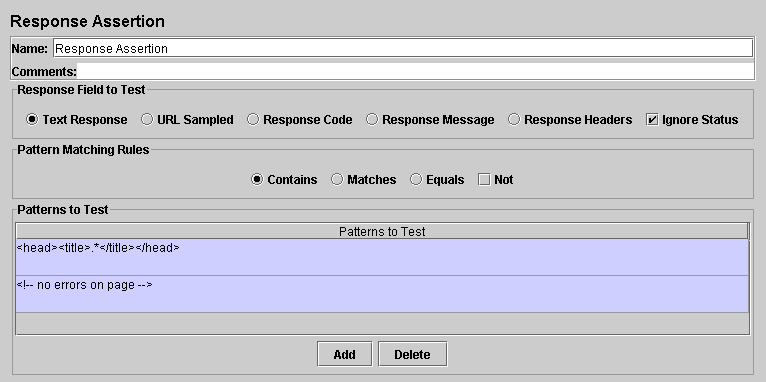
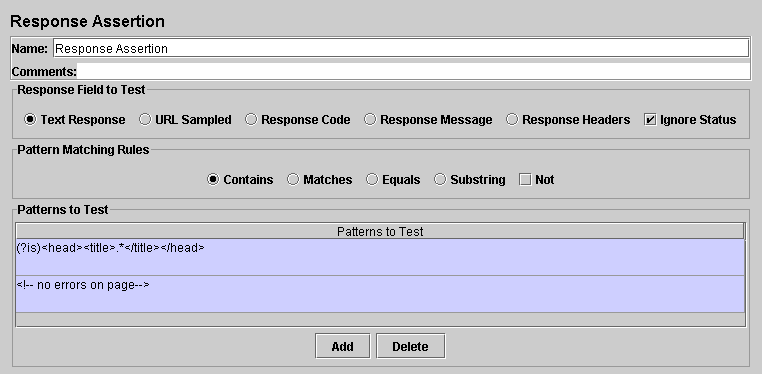
Add "Substring" option to Response Assertion
git-svn-id: https://svn.apache.org/repos/asf/jakarta/jmeter/trunk@629519 13f79535-47bb-0310-9956-ffa450edef68

diff --git a/docs/usermanual/component_reference.html b/docs/usermanual/component_reference.html
@@ -7891,7 +7891,7 @@ pattern. You can attach multiple assertions to any controller for additional fle
 
 
 														<p><b>Control Panel</b></p>
-						<div align="center"><img width='766' height='382' src="../images/screenshots/assertion/assertion.png"></div>
+						<div align="center"><img width='762' height='374' src="../images/screenshots/assertion/assertion.png"></div>
 											  									 			 <p>
 	<b>Parameters</b>
 	<table border="1" cellspacing="0" cellpadding="2">
@@ -7933,9 +7933,35 @@ pattern. You can attach multiple assertions to any controller for additional fle
 		</tr>
 			<tr>
 			<td>Pattern Matching Rules</td>
-			<td>						Indicates whether the text being tested
-        must CONTAIN or MATCH the test patterns.  NOT may also be selected to indicate the text
-        should NOT CONTAIN or NOT MATCH the test patterns.
+			<td>						Indicates how the text being tested
+        is checked against the pattern.
+        
+												<ul	>
+								
+        
+												<li	>
+								Contains - true if the text contains the regular expression pattern
+						</li>
+									
+        
+												<li	>
+								Matches - true if the whole text matches the regular expression pattern
+						</li>
+									
+        
+												<li	>
+								Equals - true if the whole text equals the pattern string (case-sensitive)
+						</li>
+									
+        
+												<li	>
+								Substring - true if the text contains the pattern string (case-sensitive)
+						</li>
+									
+        
+						</ul>
+									
+        NOT may also be selected to invert the result of the check.
 			</td>
 			<td>
 											Yes
@@ -7943,8 +7969,11 @@ pattern. You can attach multiple assertions to any controller for additional fle
 		</tr>
 			<tr>
 			<td>Patterns to Test</td>
-			<td>						A list of regular expressions to
-        be tested.  Each pattern is tested separately.  There is no difference between setting up
+			<td>						A list of patterns to
+        be tested.  
+        Each pattern is tested separately. 
+        If a pattern fails, then further patterns are not checked.
+        There is no difference between setting up
         one Assertion with multiple patterns and setting up multiple Assertions with one
         pattern each (assuming the other options are the same).
         
@@ -9254,7 +9283,6 @@ your dynamic test sample.
 			</td></tr>
 	</table></p>
 									
-
 
 										  		</td></tr>
 		<tr><td><br></td></tr>

diff --git a/docs/changes.html b/docs/changes.html
@@ -147,6 +147,9 @@ Simple Controller now works properly under a While Controller
 CSV and XML files can now contain additional variables (define the JMeter property sample_variables).
 						</p>
 							  									 				<p	>
+								Response Assertion can now match on substrings
+						</p>
+							  									 				<p	>
 								Number of classes loaded in non-GUI mode is much reduced.
 						</p>
 							  									 				<h4	>
@@ -230,6 +233,11 @@ To revert to earlier behaviour, comment or change the properties classfinder.fun
 						</li>
 									
 
+												<li	>
+								Bug 44314 - Not possible to add more than one SyncTimer
+						</li>
+									
+
 						</ul>
 							  									 				<h4	>
 								Improvements
@@ -301,6 +309,16 @@ that contain '.functions.' and don't contain '.gui.'
 												<li	>
 								Allow most functions to be used on the Test Plan. 
 Note __split() and __regex() cannot be used on the Test Plan.
+						</li>
+									
+
+												<li	>
+								Allow Global properties to be loaded from a file, e.g. -Gglobal.properties
+						</li>
+									
+
+												<li	>
+								Add "Substring" option to Response Assertion
 						</li>
 									
 

diff --git a/docs/usermanual/get-started.html b/docs/usermanual/get-started.html
@@ -1145,8 +1145,10 @@ These are shown below.
                 Set password for proxy server that JMeter is to use
         -J, --jmeterproperty {argument}={value}
                 Define additional JMeter properties
-        -G, --globalproperty (argument)=(value)
+        -G, --globalproperty (argument)[=(value)]
                 Define Global properties (sent to servers)
+                e.g. -Gport=123
+                 or -Gglobal.properties
         -D, --systemproperty {argument}={value}
                 Define additional System properties
         -S, --systemPropertyFile {filename}

diff --git a/src/components/org/apache/jmeter/assertions/ResponseAssertion.java b/src/components/org/apache/jmeter/assertions/ResponseAssertion.java
@@ -77,6 +77,11 @@ public class ResponseAssertion extends AbstractTestElement implements Serializab
 
 	private final static int EQUALS = 1 << 3;
 
+    private final static int SUBSTRING = 1 << 4;
+
+    // Mask should contain all types (but not NOT)
+    private final static int TYPE_MASK = CONTAINS | EQUALS | MATCH | SUBSTRING;
+    
     private static final int  EQUALS_SECTION_DIFF_LEN
             = JMeterUtils.getPropDefault("assertion.equals_section_diff_len", 100);
 
@@ -147,6 +152,11 @@ public class ResponseAssertion extends AbstractTestElement implements Serializab
 		setProperty(new IntegerProperty(TEST_TYPE, testType));
 	}
 
+    private void setTestTypeMasked(int testType) {
+        int value = getTestType() & ~(TYPE_MASK) | testType;
+        setProperty(new IntegerProperty(TEST_TYPE, value));
+    }
+
 	public void addTestString(String testString) {
 		getTestStrings().addProperty(new StringProperty(String.valueOf(testString.hashCode()), testString));
 	}
@@ -211,6 +221,10 @@ public class ResponseAssertion extends AbstractTestElement implements Serializab
 		return (getTestType() & EQUALS) > 0;
 	}
 
+    public boolean isSubstringType() {
+        return (getTestType() & SUBSTRING) > 0;
+    }
+
 	public boolean isContainsType() {
 		return (getTestType() & CONTAINS) > 0;
 	}
@@ -224,16 +238,20 @@ public class ResponseAssertion extends AbstractTestElement implements Serializab
 	}
 
 	public void setToContainsType() {
-		setTestType((getTestType() | CONTAINS) & ~(MATCH | EQUALS));
+		setTestTypeMasked(CONTAINS);
 	}
 
 	public void setToMatchType() {
-		setTestType((getTestType() | MATCH) & ~(CONTAINS | EQUALS));
+	    setTestTypeMasked(MATCH);
 	}
 
 	public void setToEqualsType() {
-		setTestType((getTestType() | EQUALS) & ~(MATCH | CONTAINS));
+	    setTestTypeMasked(EQUALS);
 	}
+
+    public void setToSubstringType() {
+        setTestTypeMasked(SUBSTRING);
+    }
 
 	public void setToNotType() {
 		setTestType((getTestType() | NOT));
@@ -292,6 +310,7 @@ public class ResponseAssertion extends AbstractTestElement implements Serializab
 
 		boolean contains = isContainsType(); // do it once outside loop
 		boolean equals = isEqualsType();
+        boolean substring = isSubstringType();
 		boolean debugEnabled = log.isDebugEnabled();
 		if (debugEnabled){
 			log.debug("Type:" + (contains?"Contains":"Match") + (not? "(not)": ""));
@@ -309,6 +328,8 @@ public class ResponseAssertion extends AbstractTestElement implements Serializab
 					found = localMatcher.contains(toCheck, pattern);
                 } else if (equals) {
                     found = toCheck.equals(stringPattern);
+                } else if (substring) {
+                    found = toCheck.indexOf(stringPattern) != -1;
 				} else {
 					found = localMatcher.matches(toCheck, pattern);
 				}
@@ -356,9 +377,11 @@ public class ResponseAssertion extends AbstractTestElement implements Serializab
 
 		switch (getTestType()) {
 		case CONTAINS:
+        case SUBSTRING:
 			sb.append(" expected to contain ");
 			break;
 		case NOT | CONTAINS:
+        case NOT | SUBSTRING:
 			sb.append(" expected not to contain ");
 			break;
 		case MATCH:

diff --git a/src/components/org/apache/jmeter/assertions/gui/AssertionGui.java b/src/components/org/apache/jmeter/assertions/gui/AssertionGui.java
@@ -83,9 +83,14 @@ public class AssertionGui extends AbstractAssertionGui {
 	private JRadioButton matchesBox;
 
 	/**
-	 * Radio button indicating if the field equals the first pattern.
+	 * Radio button indicating if the field equals the string.
 	 */
 	private JRadioButton equalsBox;
+
+    /**
+     * Radio button indicating if the field contains the string.
+     */
+    private JRadioButton substringBox;
 
     /**
 	 * Checkbox indicating to test that the field does NOT contain/match the
@@ -153,6 +158,8 @@ public class AssertionGui extends AbstractAssertionGui {
 				ra.setToContainsType();
 			} else if (equalsBox.isSelected()) {
                 ra.setToEqualsType();
+            } else if (substringBox.isSelected()) {
+                ra.setToSubstringType();
 			} else {
 				ra.setToMatchType();
 			}
@@ -181,8 +188,6 @@ public class AssertionGui extends AbstractAssertionGui {
         assumeSuccess.setSelected(false);
         
         containsBox.setSelected(true);
-        matchesBox.setSelected(false);
-        equalsBox.setSelected(false);
         notBox.setSelected(false);
     }    
 
@@ -201,23 +206,15 @@ public class AssertionGui extends AbstractAssertionGui {
 
 		if (model.isContainsType()) {
 			containsBox.setSelected(true);
-			matchesBox.setSelected(false);
-            equalsBox.setSelected(false);
         } else if (model.isEqualsType()) {
-			containsBox.setSelected(false);
-			matchesBox.setSelected(false);
             equalsBox.setSelected(true);
+        } else if (model.isSubstringType()) {
+            substringBox.setSelected(true);
 		} else {
-			containsBox.setSelected(false);
 			matchesBox.setSelected(true);
-            equalsBox.setSelected(false);
 		}
 
-		if (model.isNotType()) {
-			notBox.setSelected(true);
-		} else {
-			notBox.setSelected(false);
-		}
+		notBox.setSelected(model.isNotType());
 
 		if (model.isTestFieldResponseData()) {
 			responseStringButton.setSelected(true);
@@ -325,6 +322,10 @@ public class AssertionGui extends AbstractAssertionGui {
 		equalsBox = new JRadioButton(JMeterUtils.getResString("assertion_equals")); //$NON-NLS-1$
 		group.add(equalsBox);
 		panel.add(equalsBox);
+
+        substringBox = new JRadioButton(JMeterUtils.getResString("assertion_substring")); //$NON-NLS-1$
+        group.add(substringBox);
+        panel.add(substringBox);
 
 		notBox = new JCheckBox(JMeterUtils.getResString("assertion_not")); //$NON-NLS-1$
 		panel.add(notBox);
